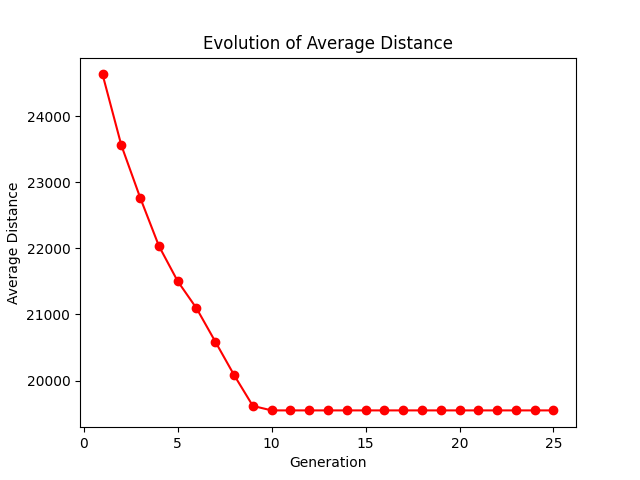
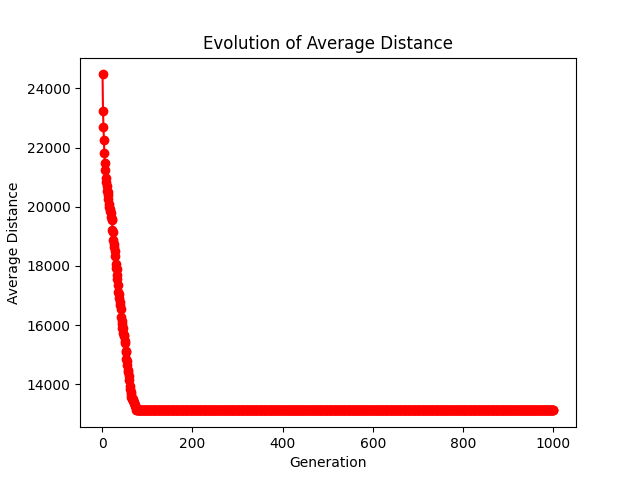
adding of dupe check and mutation

diff --git a/beehive_with_no_check.py b/beehive_with_no_check.py
@@ -76,48 +76,3 @@ class Beehive(Flower):
             curr_flower = genome[i]
             distance += self.distance_matrix[self.flowers.index(prev_flower)][self.flowers.index(curr_flower)]
         return distance
-    
-    def verify_flowers(self):
-        for i in range(len(self.genome_list)):
-            bee_genome, _ = self.genome_list[i]
-            if len(bee_genome) < 50:
-                current_flowers = set(bee_genome)
-                available_flowers = list(set(self.flowers) - current_flowers)
-                while len(bee_genome) < 50:
-                    new_flower = choice(available_flowers)
-                    bee_genome.append(new_flower)
-                    available_flowers.remove(new_flower)
-            elif len(bee_genome) > 50:
-                bee_genome = random.sample(bee_genome, 50)
-            self.genome_list[i] = (bee_genome, self.calculate_distance(bee_genome))
-            
-    def verify_duplicate_flowers(self):
-        for i in range(len(self.genome_list)):
-            bee_genome, _ = self.genome_list[i]
-            seen = set()
-            missing_flowers = list(set(self.flowers) - set(bee_genome))
-            for flower in bee_genome:
-                if flower in seen:
-                    bee_genome.remove(flower)
-                    if missing_flowers:
-                        new_flower = choice(missing_flowers)
-                        bee_genome.append(new_flower)
-                        missing_flowers.remove(new_flower)
-                else:
-                    seen.add(flower)
-            while len(bee_genome) < 50 and missing_flowers:
-                new_flower = choice(missing_flowers)
-                bee_genome.append(new_flower)
-                missing_flowers.remove(new_flower)
-            self.genome_list[i] = (bee_genome, self.calculate_distance(bee_genome))
-            
-    def mutation(self, generation):
-        if generation % 10 == 0:
-            for i in range(len(self.genome_list)):
-                if random.random() < 0.5:
-                    bee_genome, _ = self.genome_list[i]
-                    if len(bee_genome) >= 2:
-                        idx1, idx2 = random.sample(range(len(bee_genome)), 2)
-                        bee_genome[idx1], bee_genome[idx2] = bee_genome[idx2], bee_genome[idx1]
-                        self.genome_list[i] = (bee_genome, self.calculate_distance(bee_genome))
-        return self.genome_list

diff --git a/main.py b/main.py
@@ -1,10 +1,10 @@
 import os
-from beehive import Flower, Beehive
 import statistics
 import matplotlib.pyplot as plt
+from beehive import Flower, Beehive
 
 class Generation(Beehive):
-    def __init__(self, x, y, flowers, num_generations=25):
+    def __init__(self, x, y, flowers, num_generations=1000):
         """
         Initializes a new generation of bees.
         """
@@ -15,15 +15,37 @@ class Generation(Beehive):
 
         while self.generation < num_generations:
             if self.generation == 0:
-                self.genome_list = self.butiner(100)  
+                self.genome_list = self.butiner(100)
+                self.verify_flowers()
             else:
                 self.selection()
                 self.reproduction()
+                self.verify_flowers()
+                self.verify_duplicate_flowers()
 
             self.generation += 1
             avg_distance = round(statistics.mean(distance for _, distance in self.genome_list), 2)
             self.avg_distances.append(avg_distance)
-            print("Generation {}: Average distance: {}".format(self.generation, avg_distance))
+            print(f"Generation {self.generation}: Average distance: {avg_distance}")
+
+    def run_evolution(self, num_generations=200):
+        """
+        Runs the evolution process for a specified number of generations.
+        """
+        for generation in range(1, num_generations + 1):
+            if generation == 1:
+                self.genome_list = self.butiner(100)
+                self.verify_flowers()
+            else:
+                self.selection()
+                self.reproduction()
+                self.verify_flowers()
+                self.verify_duplicate_flowers()
+
+            self.mutation(generation)  # Ajout de la mutation
+            avg_distance = round(statistics.mean(distance for _, distance in self.genome_list), 2)
+            self.avg_distances.append(avg_distance)
+            print(f"Generation {generation}: Average distance: {avg_distance}")
 
     def save_graphs(self):
         """

diff --git a/beehive_check_dupes.py b/beehive_check_dupes.py
@@ -110,14 +110,3 @@ class Beehive(Flower):
                 bee_genome.append(new_flower)
                 missing_flowers.remove(new_flower)
             self.genome_list[i] = (bee_genome, self.calculate_distance(bee_genome))
-            
-    def mutation(self, generation):
-        if generation % 10 == 0:
-            for i in range(len(self.genome_list)):
-                if random.random() < 0.5:
-                    bee_genome, _ = self.genome_list[i]
-                    if len(bee_genome) >= 2:
-                        idx1, idx2 = random.sample(range(len(bee_genome)), 2)
-                        bee_genome[idx1], bee_genome[idx2] = bee_genome[idx2], bee_genome[idx1]
-                        self.genome_list[i] = (bee_genome, self.calculate_distance(bee_genome))
-        return self.genome_list
